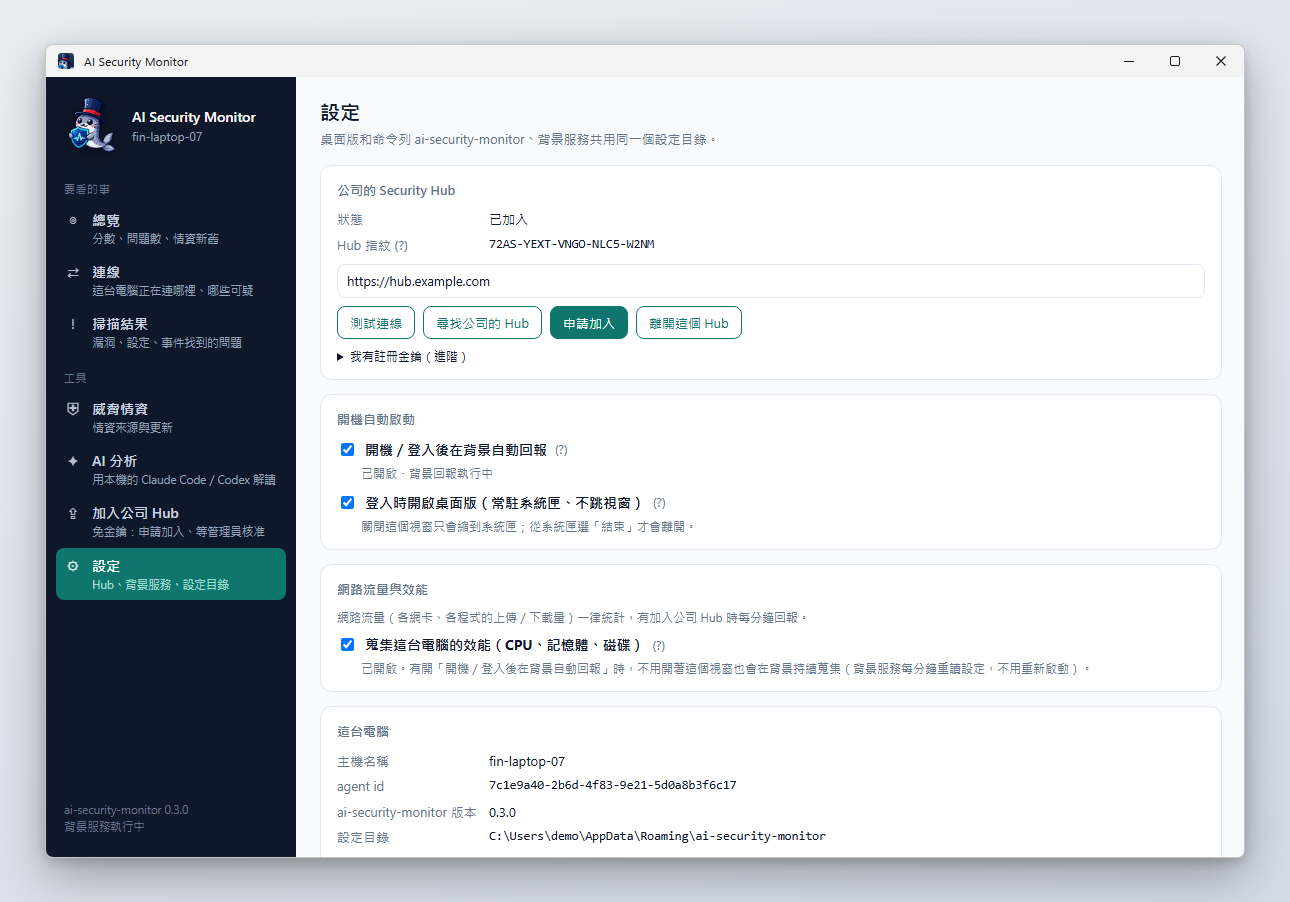
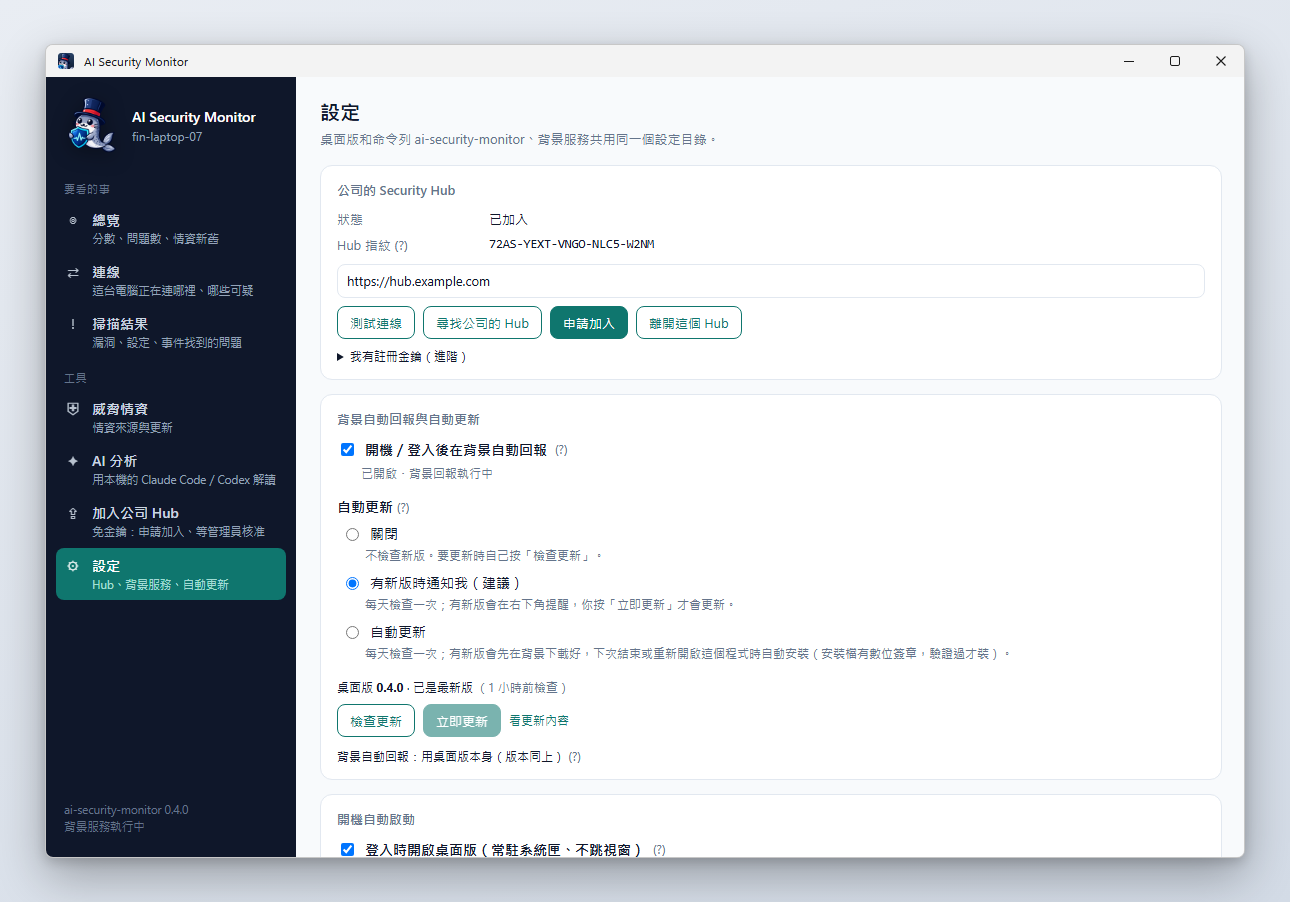
docs: 重拍桌面版截圖（自動更新區塊、立即上傳卡片），文件加上設定頁自動更新截圖

diff --git a/docs/desktop.en.md b/docs/desktop.en.md
@@ -6,7 +6,7 @@ English | [繁體中文](desktop.md)
 
 ## Install
 
-Download from [Releases](https://github.com/markku636/ai-security-monitor/releases/latest) (current version v0.3.0):
+Download from [Releases](https://github.com/markku636/ai-security-monitor/releases/latest) (current version v0.4.0):
 
 | Platform | File | First launch (the installers are not code-signed) |
 |---|---|---|
@@ -65,6 +65,8 @@ moves `%APPDATA%\ai-security-agent` to `%APPDATA%\ai-security-monitor`, and the 
 ## Automatic updates
 
 Settings → "Background reporting and automatic updates":
+
+![Background reporting and automatic updates in Settings](images/desktop-settings-update.png)
 
 - **Automatic updates**: "Off", "Notify me when a new version is out (recommended, default)", "Update automatically". It checks once a day (first about 30 seconds after start). In notify mode a "New version 0.x.y" notice appears in the bottom-right corner; press "Update now" or dismiss it. In automatic mode the update is downloaded in the background and installed the next time you choose "Quit" from the tray or reopen the app (if the app was started in the tray at sign-in and its window has not been opened yet, it installs right away).
 - **Check for updates / Update now** work at any time regardless of the setting, and show the current version, the latest version and a link to the release notes.

diff --git a/docs/desktop.md b/docs/desktop.md
@@ -6,7 +6,7 @@
 
 ## 安裝
 
-從 [Releases](https://github.com/markku636/ai-security-monitor/releases/latest) 下載（目前版本 v0.3.0）：
+從 [Releases](https://github.com/markku636/ai-security-monitor/releases/latest) 下載（目前版本 v0.4.0）：
 
 | 平台 | 檔案 | 第一次開啟（安裝檔沒有程式碼簽章） |
 |---|---|---|
@@ -64,6 +64,8 @@
 ## 自動更新
 
 「設定 → 背景自動回報與自動更新」：
+
+![設定頁的背景自動回報與自動更新](images/desktop-settings-update.png)
 
 - **自動更新**：「關閉」「有新版時通知我（建議，預設）」「自動更新」。每天檢查一次（啟動後約 30 秒第一次）。通知時右下角會出現「有新版 0.x.y」的提示，按「立即更新」或關掉都可以；自動更新會先在背景下載好，下次從系統匣「結束」或重新開啟時安裝（登入時以系統匣啟動、還沒開過視窗的話就直接安裝）。
 - **檢查更新／立即更新**：不管設定是什麼，隨時可以手動檢查與更新；顯示目前版本、最新版本與「看更新內容」（GitHub Release 說明）。
